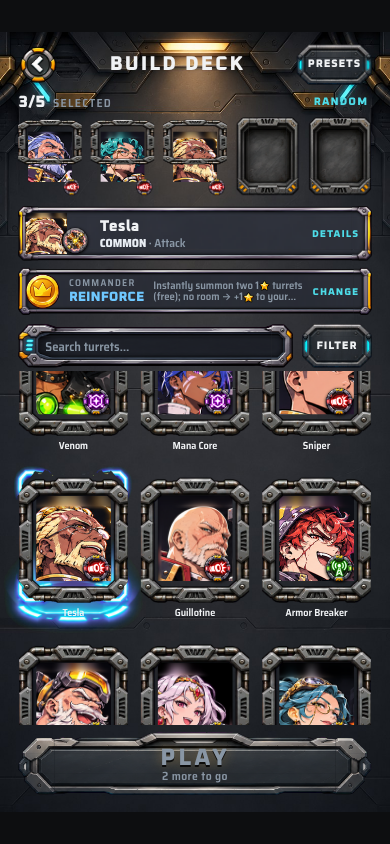
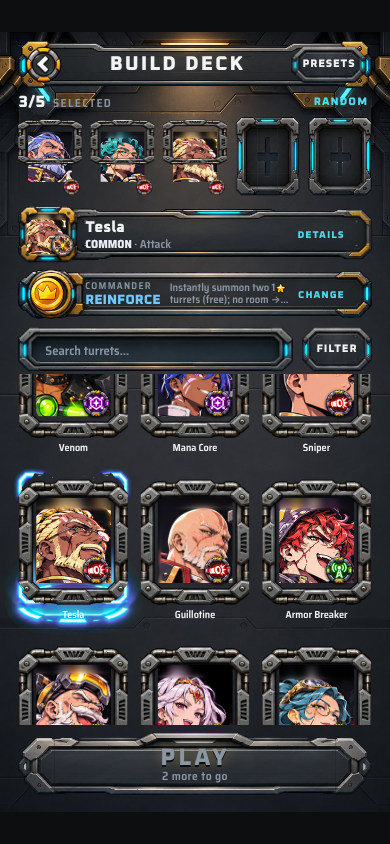
thap: HUD mượt A — nối raw_p7_a3 (thanh đầu, ô tìm, nút chế độ có ổ ▼, dải ụ nổi bật có ô chân dung, hàng chỉ huy có ổ tròn)
Claude-Session: https://claude.ai/code/session_016VkJ26f22ubevy4EnREsEV

Changed region(s): [[0.0308, 0.0308, 0.9538, 0.8626]]

diff --git a/thap/css/hudmuot-a.css b/thap/css/hudmuot-a.css
@@ -241,3 +241,15 @@
 /* raw_p7_a2 đã nối: A07 ô bộ bài trống p7_o_trong · ô CHỜ ĐỔI p7_o_doi (hổ phách) — ô có ụ giữ khung độ hiếm the_khung_<bậc> */
 #chon #chon-bo .o-bo:not([data-id]) { border: 0 solid transparent; border-image: url(../assets/p7_o_trong.png) 84 84 fill / 24px stretch; }
 #chon #chon-bo .o-bo.hm-armed::after { inset: -5px -5px; background: none; border: 0 solid transparent; border-image: url(../assets/p7_o_doi.png) 96 / 26px stretch; }
+/* raw_p7_a3 đã nối: A09 p7_dau (thanh đầu) · A10 p7_tim (ô tìm) · H03 p7_che (nút chế độ, ổ ▼ vẽ sẵn bên phải) · D01 p7_noi (ô chân dung trái) · D03 p7_hang (ổ tròn trái) */
+.dk-dau { padding: 0 6px; border: 0 solid transparent; border-image: url(../assets/p7_dau.png) 60 120 fill / 17px 34px stretch; }
+.dk-dau .hm-ic.dk-pre { height: 40px; }
+.dk-o { padding: 0 18px 0 30px; border-image: url(../assets/p7_tim.png) 60 96 fill / 15px 24px stretch; }
+.hm-che { position: relative; padding: 0 70px 0 14px; border-image: url(../assets/p7_che.png) 52 200 52 74 fill / 16px 62px 16px 22px stretch; }
+.hm-che em { display: none; }
+.dk-noi { position: relative; height: 62px; padding: 0 30px 0 74px; border-image: url(../assets/p7_noi.png) 64 110 64 262 fill / 16px 28px 16px 66px stretch; }
+.dk-noi .dk-noi-po { position: absolute; left: 9px; top: 9px; width: 44px; height: 44px; }
+.dk-noi .dk-noi-u { position: absolute; left: 34px; top: 28px; width: 30px; height: 30px; margin: 0; }
+.dk-noi .dk-noi-trong { margin-left: -40px; }
+.dk-mv { position: relative; height: 54px; padding: 0 30px 0 74px; border-image: url(../assets/p7_hang.png) 44 96 44 210 fill / 15px 30px 15px 72px stretch; }
+.dk-mv .dk-mv-po { position: absolute; left: 13px; top: 8px; width: 38px; height: 38px; }

diff --git a/tools/thap-cat-p7-a.py b/tools/thap-cat-p7-a.py
@@ -34,3 +34,10 @@ if co_tam('raw_p7_a2.png'):
     luu(co(s[0], w=270), 'p7_o_co.png', 'viền ô có ụ (A07)'); luu(co(s[1], w=270), 'p7_o_doi.png', 'viền ô CHỜ ĐỔI (A07, hổ phách)'); luu(co(s[2], w=270), 'p7_o_chon.png', 'viền ô đang chọn (A07, lam)')
     luu(co(khoa_kin(o(0, 0)), w=380), 'p7_the_chon.png', 'khung thẻ chọn A04 (dự phòng; thẻ chọn đang dùng hiệu ứng raw_sel_card)')
 for x in BAO[-5:]: print(*x)
+# raw_p7_a3 · 1024×1536 · 1 cột × 6 hàng: A09 thanh đầu · A10 ô tìm · H03 nút chế độ (ổ thả xuống) · D01 dải nổi bật (ô chân dung trái) · D03 hàng có ổ tròn · A11 tiền tệ
+if co_tam('raw_p7_a3.png'):
+    R = 'raw_p7_a3.png'; o = lambda i: cat(R, (0, i * 256, 1024, i * 256 + 256))
+    for i, n, g in [(0, 'p7_dau', 'thanh đầu A09 (màn bộ bài)'), (1, 'p7_tim', 'ô tìm A10'), (2, 'p7_che', 'nút chế độ H03 (ổ ▼ phải)'),
+                    (3, 'p7_noi', 'dải ụ nổi bật D01 (ô chân dung trái)'), (4, 'p7_hang', 'hàng có ổ tròn D03 (chỉ huy / bộ mẫu)'), (5, 'p7_tien', 'ổ tiền tệ A11 (chưa dùng)')]:
+        luu(o(i), n + '.png', g)
+for x in BAO[-6:]: print(*x)

diff --git a/docs/demo-hop-tuong/HINH-VE-CODE-AUDIT.md b/docs/demo-hop-tuong/HINH-VE-CODE-AUDIT.md
@@ -978,4 +978,4 @@ và `css/hud2.css` (thanh trên, khay, nút).
 
 Thứ tự ưu tiên: b1 (thanh + dải xem nhanh) → b2 (nút) → b4 → b3.
 
-**Pass 7 home/deck — đã nối:** `raw_p7_h01` → `thap/assets/nen_home.jpg` (nền HOME), `raw_p7_d00` → `thap/assets/nen_deck.jpg` (nền màn bộ bài) — 1024×1536 đục, giữ nguyên độ nét tấm raw; `raw_p7_a1` → `p7_nut1(_an/_tat)`, `p7_nut2(_an)`, `p7_tam`; `raw_p7_a2` → `p7_o_trong`, `p7_o_doi` (+ `p7_o_co`, `p7_o_chon`, `p7_the_chon` dự phòng) (`tools/thap-cat-p7-a.py`). Các tấm còn lại (h02, a3–a8, d02) đang chờ; chỗ dùng tạm ghi ở đầu `thap/css/hudmuot-a.css`.
+**Pass 7 home/deck — đã nối:** `raw_p7_h01` → `thap/assets/nen_home.jpg` (nền HOME), `raw_p7_d00` → `thap/assets/nen_deck.jpg` (nền màn bộ bài) — 1024×1536 đục, giữ nguyên độ nét tấm raw; `raw_p7_a1` → `p7_nut1(_an/_tat)`, `p7_nut2(_an)`, `p7_tam`; `raw_p7_a2` → `p7_o_trong`, `p7_o_doi` (+ `p7_o_co`, `p7_o_chon`, `p7_the_chon` dự phòng) ; `raw_p7_a3` → `p7_dau`, `p7_tim`, `p7_che`, `p7_noi`, `p7_hang` (+ `p7_tien` chưa dùng) (`tools/thap-cat-p7-a.py`). Các tấm còn lại (h02, a4–a8, d02) đang chờ; chỗ dùng tạm ghi ở đầu `thap/css/hudmuot-a.css`.
